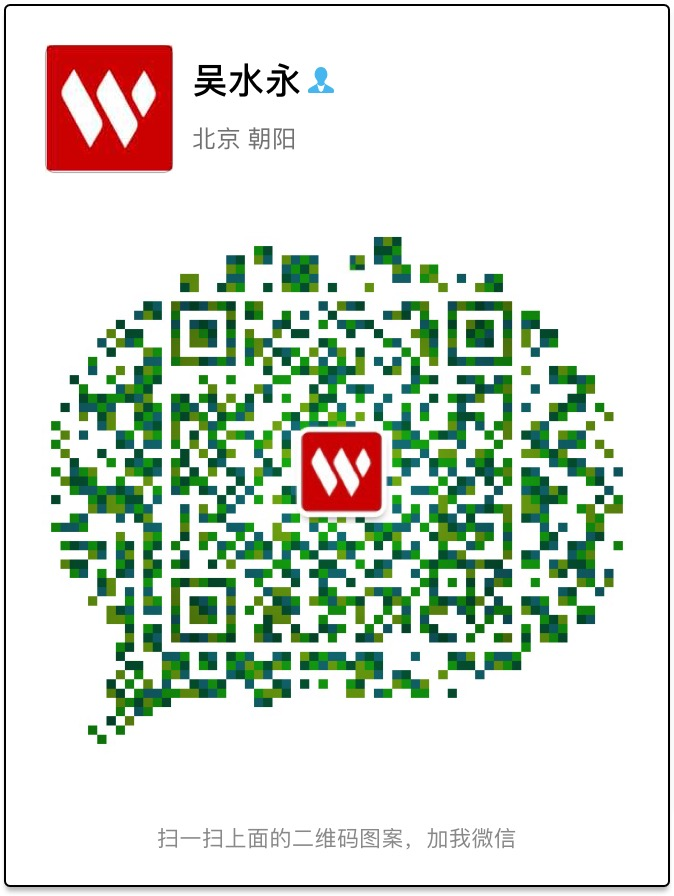
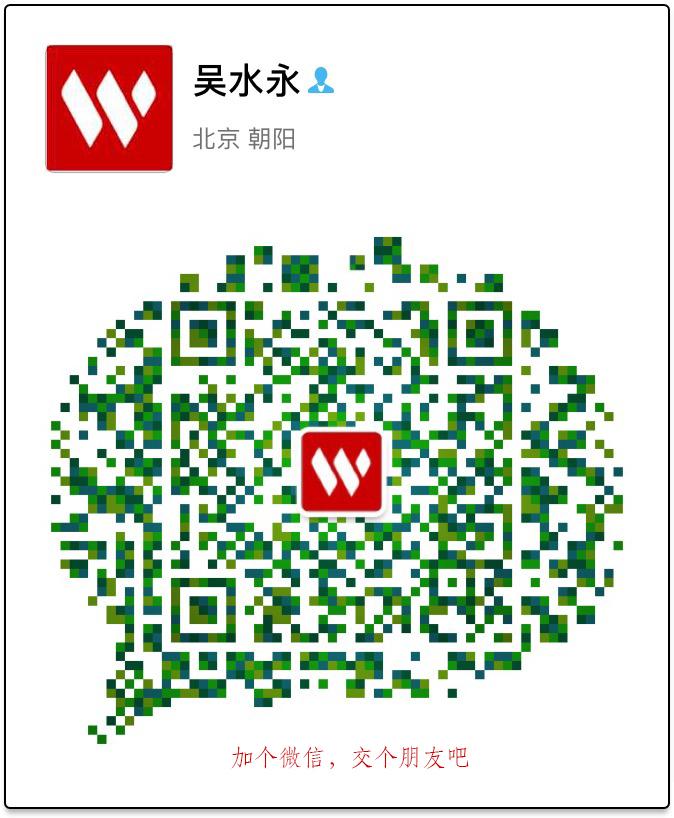
test

diff --git a/README.md b/README.md
@@ -162,5 +162,5 @@ Discussing
 交个朋友吧
 --------
 ![](https://raw.githubusercontent.com/meolu/walle-web/feature-weixin/docs/weixin.wushuiyong.jpg)
-<img src="https://raw.githubusercontent.com/meolu/walle-web/feature-weixin/docs/weixin.wushuiyong.jpg" width="337" height="448" alt="吴水永微信" align=left />
-<img src="https://raw.githubusercontent.com/meolu/walle-web/feature-weixin/docs/weixin.wushuiyong.jpg" width="337" height="448" alt="吴水永微信" align=left />
+<img src="https://raw.githubusercontent.com/meolu/walle-web/feature-weixin/docs/weixin.wushuiyong.jpg" width="244" height="314" alt="吴水永微信" align=left />
+<img src="https://raw.githubusercontent.com/meolu/walle-web/feature-weixin/docs/weixin.wushuiyong.jpg" width="244" height="314" alt="吴水永微信" align=left />
